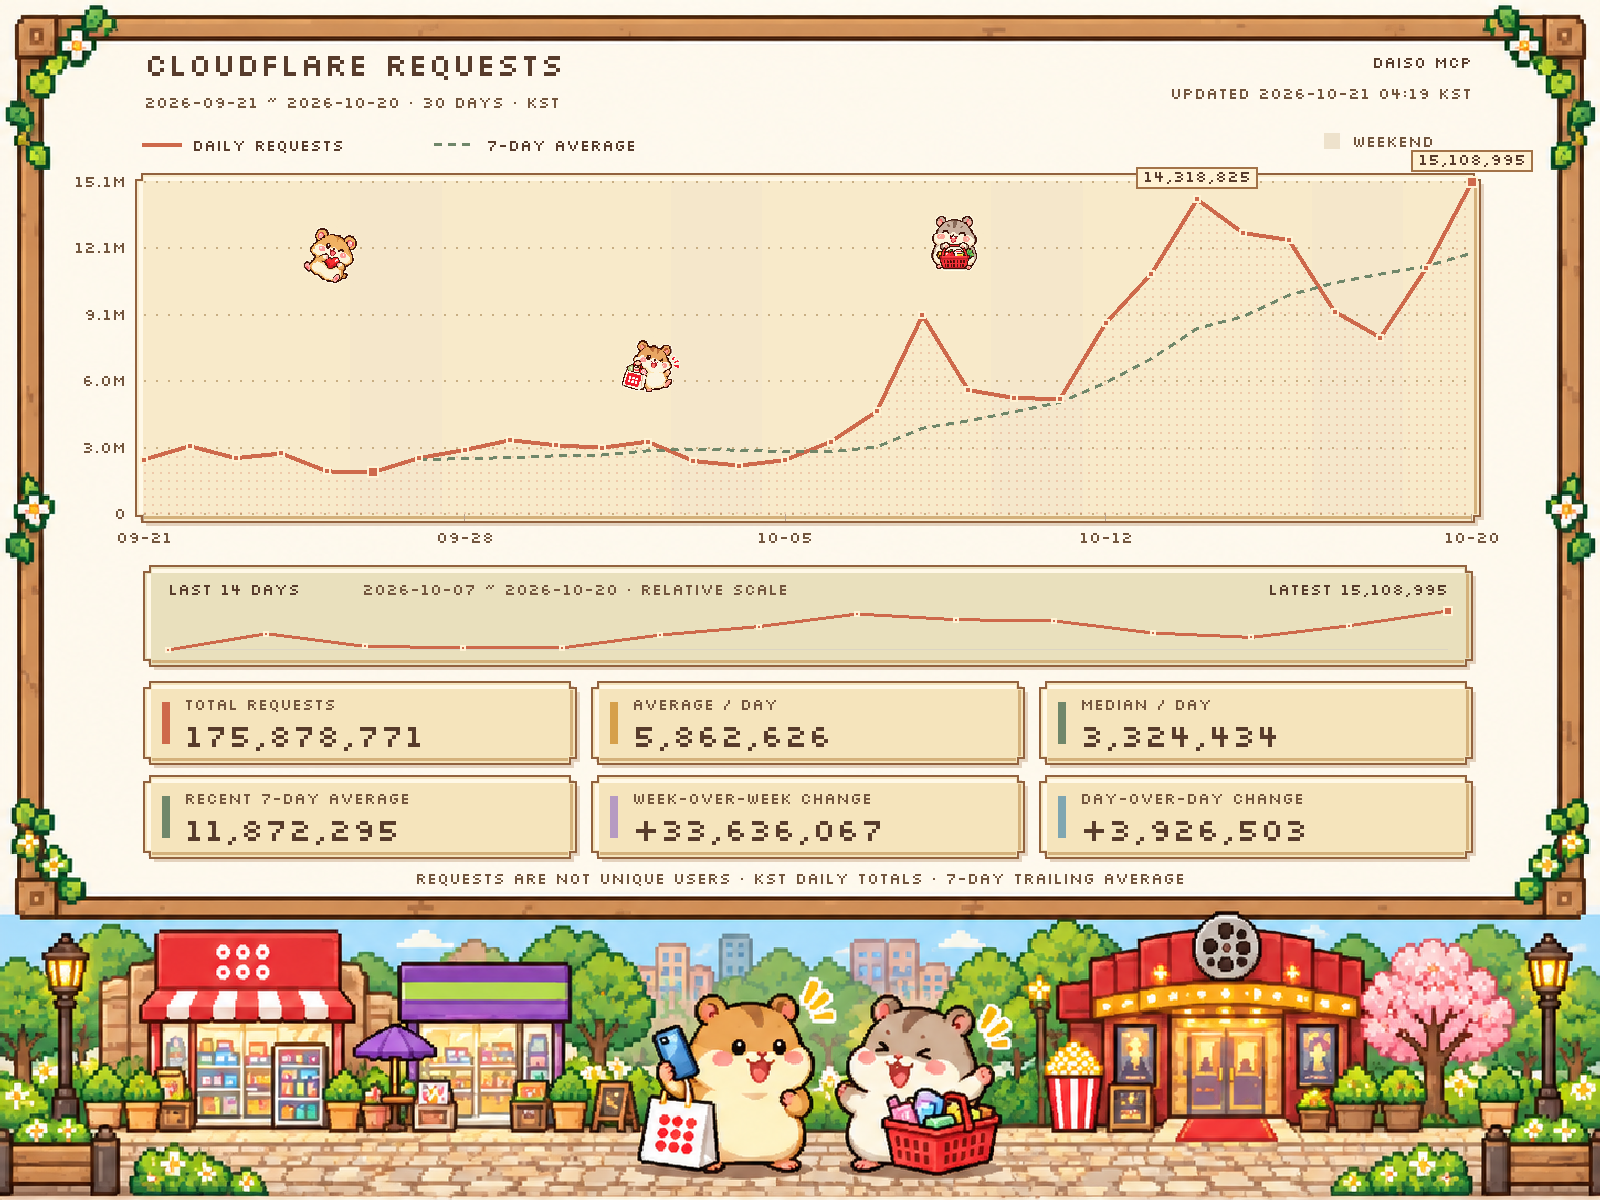
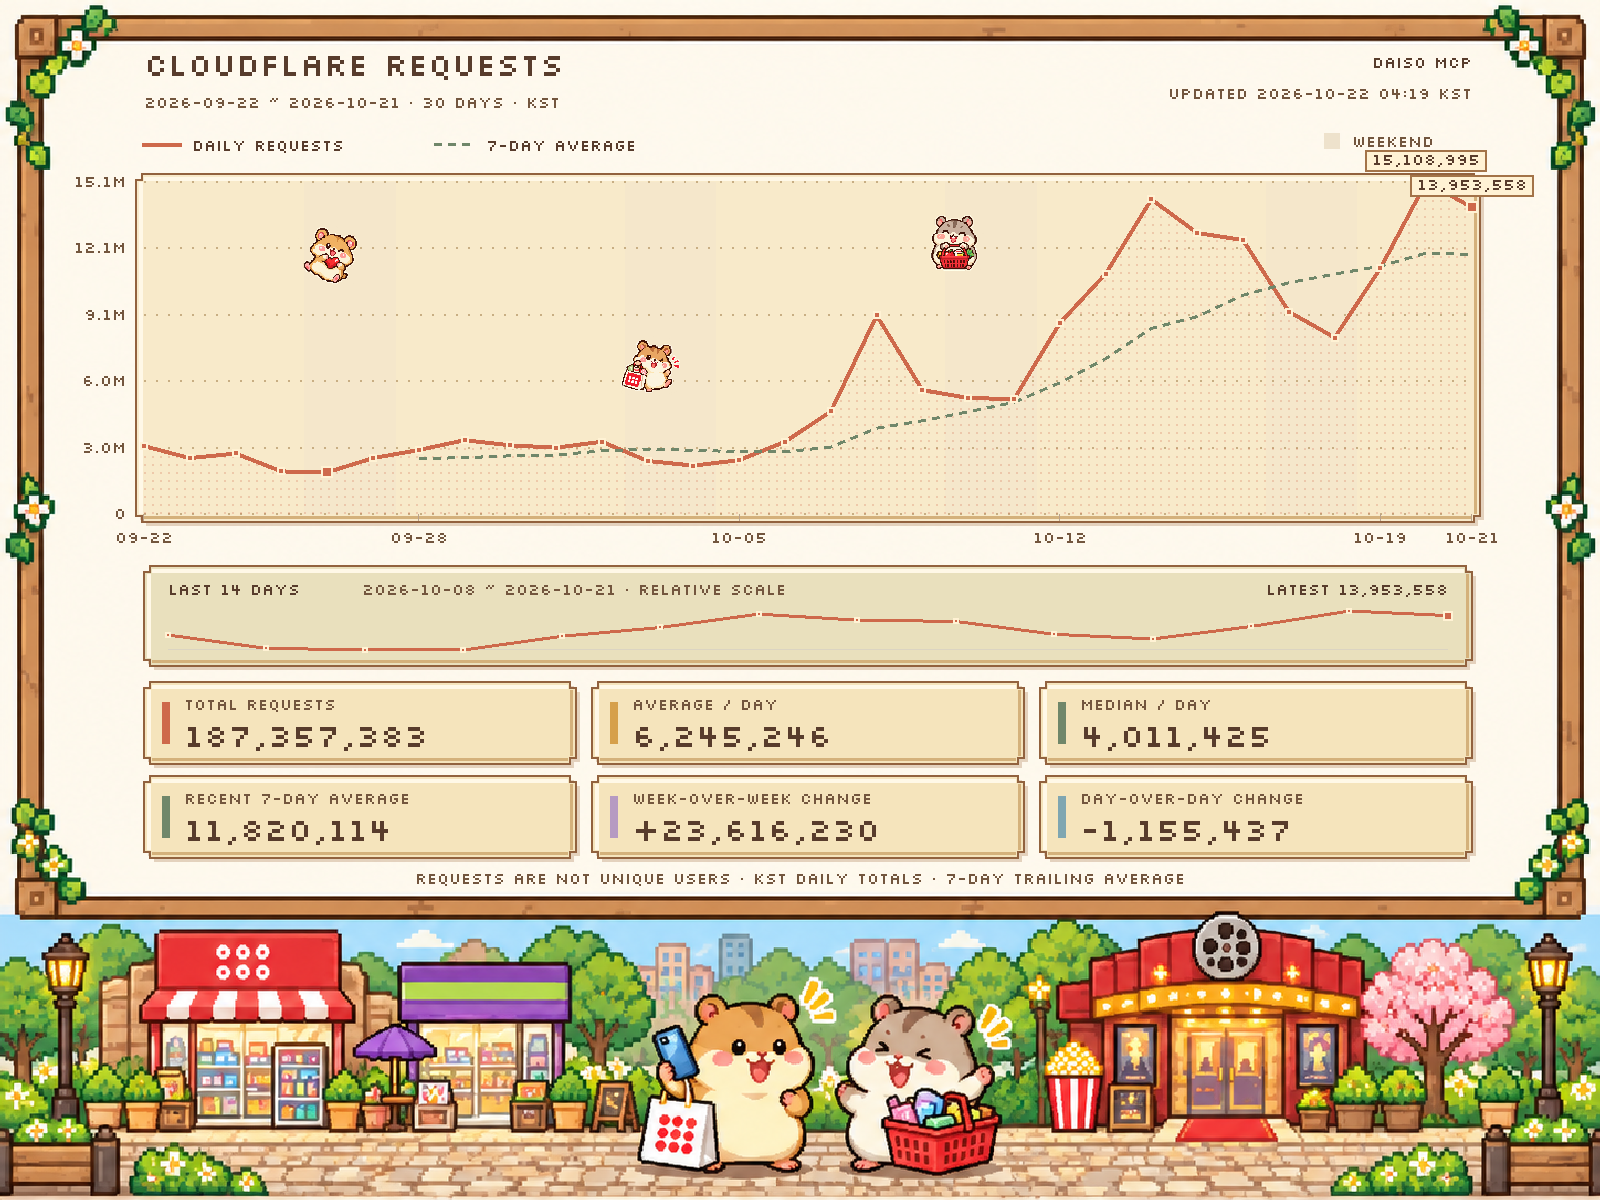
chore: 워커 호출량 그래프 자동 갱신

diff --git a/README.md b/README.md
@@ -94,11 +94,11 @@
 **[실시간 서비스 상태 보기](https://aka-page.betteruptime.com/)**
 
 <!-- WORKERS_INVOCATIONS_CHART:START -->
-<h3>Cloudflare 요청 수 (2026-09-21 ~ 2026-10-20, 30일)</h3>
+<h3>Cloudflare 요청 수 (2026-09-22 ~ 2026-10-21, 30일)</h3>
 
-<img src="./assets/analytics/workers-invocations.png?v=2026-10-20T19:19:38.004Z" alt="Cloudflare 요청 수 그래프 (2026-09-21 ~ 2026-10-20)" width="100%">
+<img src="./assets/analytics/workers-invocations.png?v=2026-10-21T19:19:48.345Z" alt="Cloudflare 요청 수 그래프 (2026-09-22 ~ 2026-10-21)" width="100%">
 
-<sub>기준 워커: <code>daiso-mcp</code> · 마지막 갱신: 2026-10-21 04:19 KST</sub>
+<sub>기준 워커: <code>daiso-mcp</code> · 마지막 갱신: 2026-10-22 04:19 KST</sub>
 <br><sub>집계: Worker 실행 + 루트 GET 리디렉션 요청 · 사용자 수와 다릅니다.</sub>
 
 </div>

diff --git a/scripts/ops/README.md b/scripts/ops/README.md
@@ -25,11 +25,11 @@
 <!-- WORKERS_INVOCATIONS_CHART:START -->
 <div align="center">
 
-<h3>Cloudflare 요청 수 (2026-09-21 ~ 2026-10-20, 30일)</h3>
+<h3>Cloudflare 요청 수 (2026-09-22 ~ 2026-10-21, 30일)</h3>
 
-<img src="../../assets/analytics/workers-invocations.png?v=2026-10-20T19:19:38.004Z" alt="Cloudflare 요청 수 그래프 (2026-09-21 ~ 2026-10-20)" width="100%">
+<img src="../../assets/analytics/workers-invocations.png?v=2026-10-21T19:19:48.345Z" alt="Cloudflare 요청 수 그래프 (2026-09-22 ~ 2026-10-21)" width="100%">
 
-<sub>기준 워커: <code>daiso-mcp</code> · 마지막 갱신: 2026-10-21 04:19 KST</sub>
+<sub>기준 워커: <code>daiso-mcp</code> · 마지막 갱신: 2026-10-22 04:19 KST</sub>
 <br><sub>집계: Worker 실행 + 루트 GET 리디렉션 요청 · 사용자 수와 다릅니다.</sub>
 
 </div>
